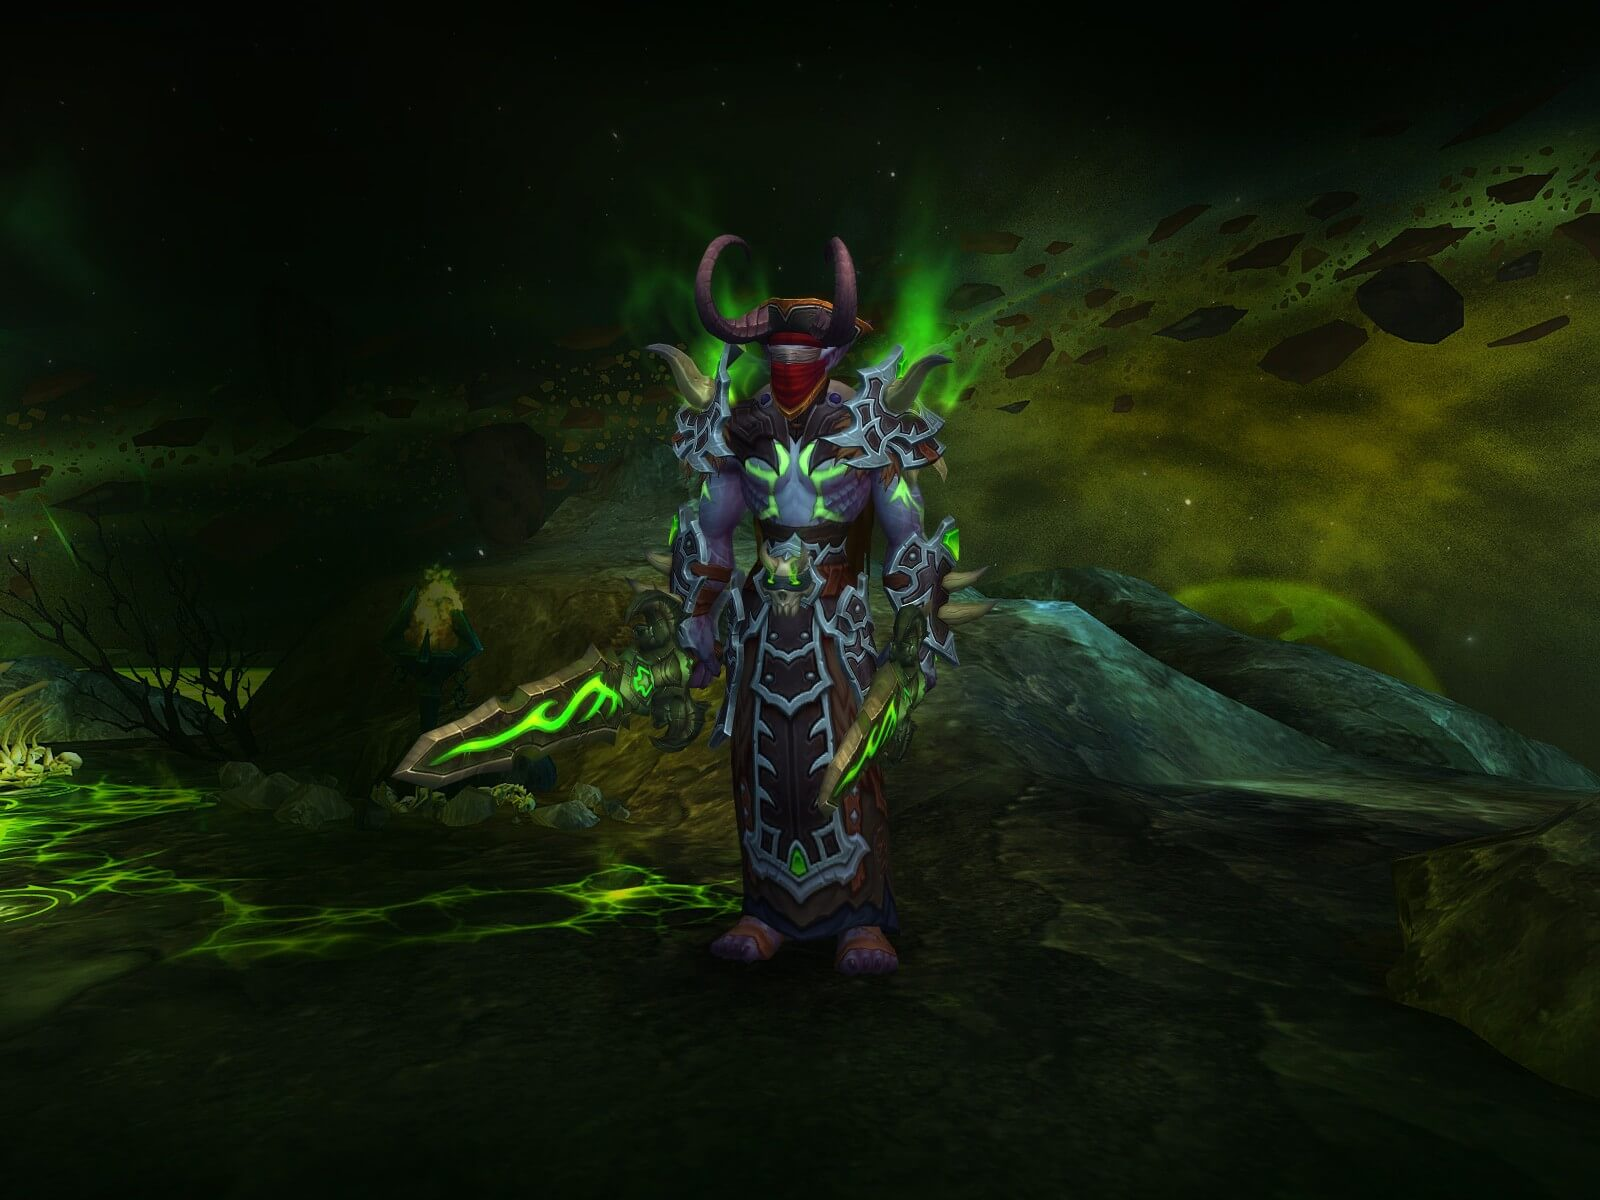
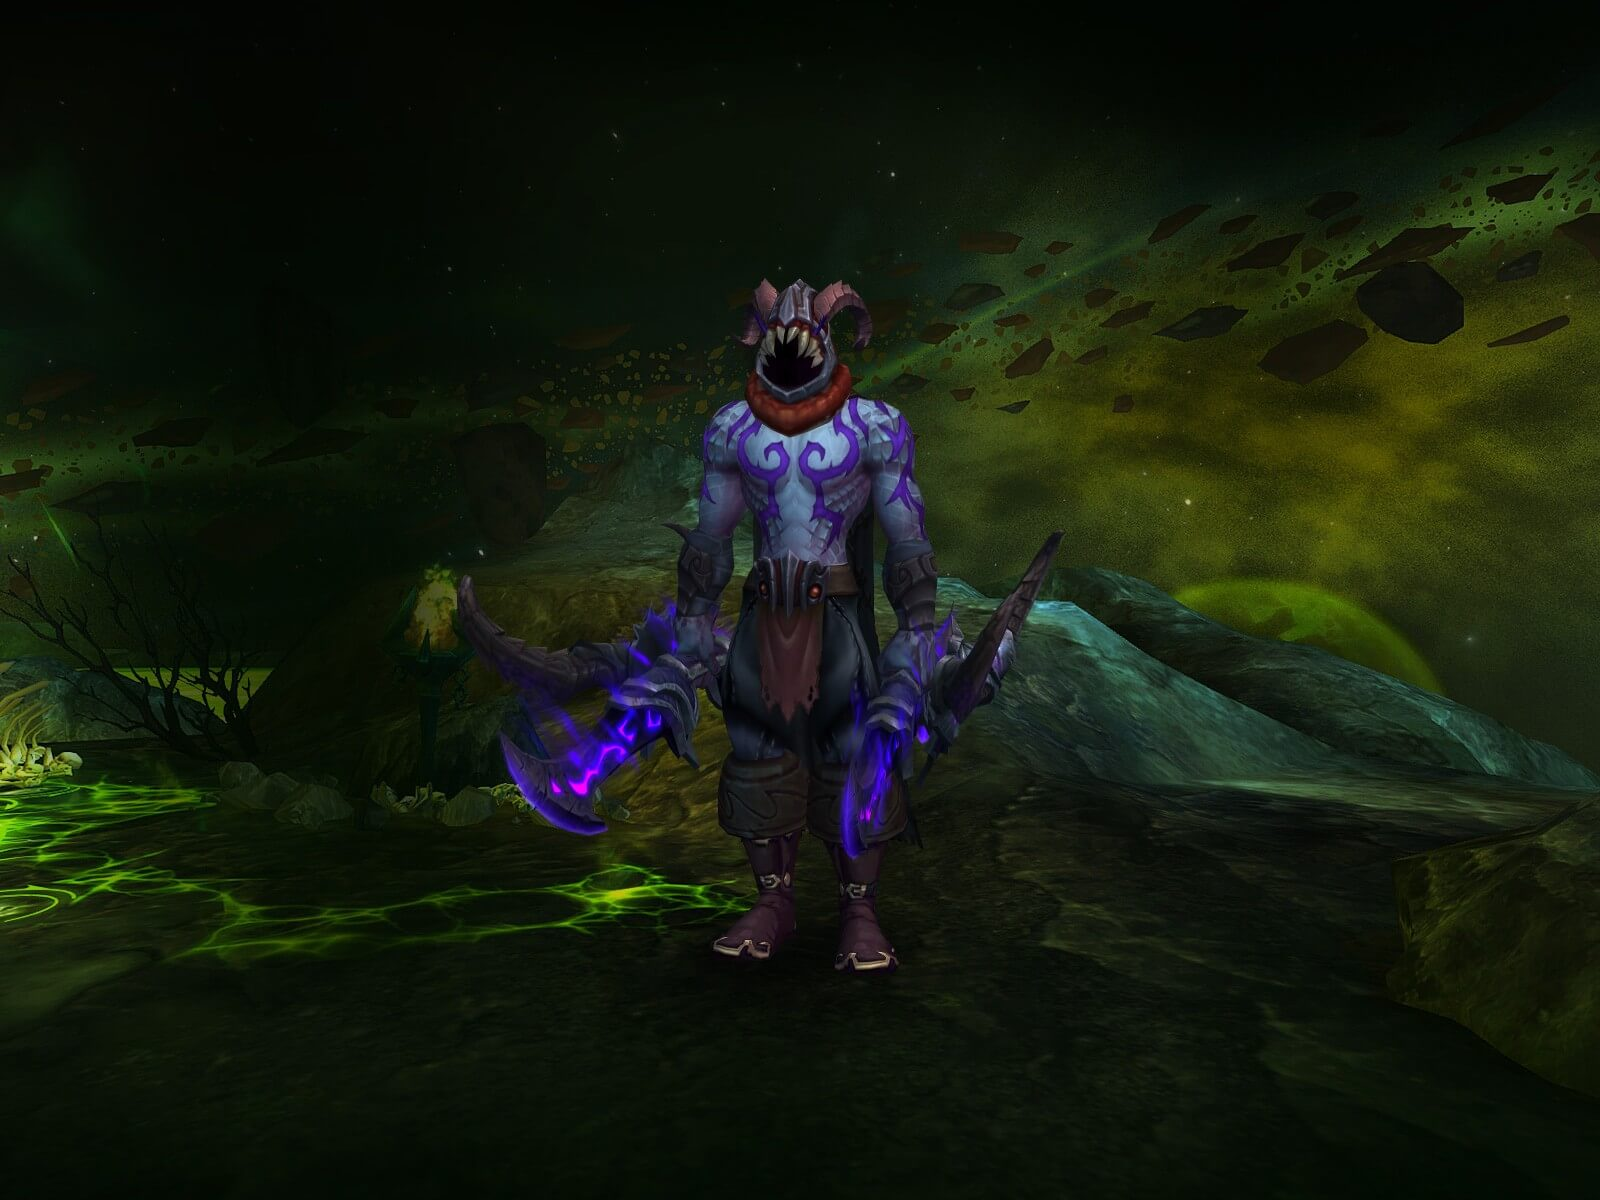
Added davetehmage + updated pics

Changed region(s): [[0.25, 0.185, 0.6562, 0.8325]]

diff --git a/index.html b/index.html
@@ -1684,7 +1684,7 @@
                   <figure>
                     <img
                       style="transform: scale(2);"
-                      src="roster/peow.jpg"
+                      src="roster/mikasa.jpg"
                       class="img-fluid"
                       alt=""
                     />
@@ -1710,6 +1710,41 @@
                   </div>
                 </div>
                 </div>
+
+                <div
+                class="col-lg-4 col-md-6 roster-item filter-dps wow fadeInUp"
+                data-wow-delay="0.2s"
+              >
+                  <div class="roster-wrap">
+                    <figure>
+                      <img
+                        style="transform: scale(2);"
+                        src="roster/davetehmage.jpg"
+                        class="img-fluid"
+                        alt=""
+                      />
+                      <a
+                        href="https://www.warcraftlogs.com/character/eu/silvermoon/davetehmage"
+                        data-title=""
+                        class="link-preview"
+                        title="WarcraftLogs"
+                        ><img class="wlogs" src="img/wlogs.png"
+                      /></a>
+                      <a
+                        href="https://worldofwarcraft.com/en-gb/character/silvermoon/davetehmage"
+                        class="link-details"
+                        title="Armory Link"
+                        target="_blank"
+                        ><i class="ion ion-android-open"></i
+                      ></a>
+                    </figure>
+  
+                    <div class="roster-info">
+                      <h4>Davetehmage</h4>
+                      <p>Fire Mage</p>
+                    </div>
+                  </div>
+                  </div>
 
               </div>
             </div>
